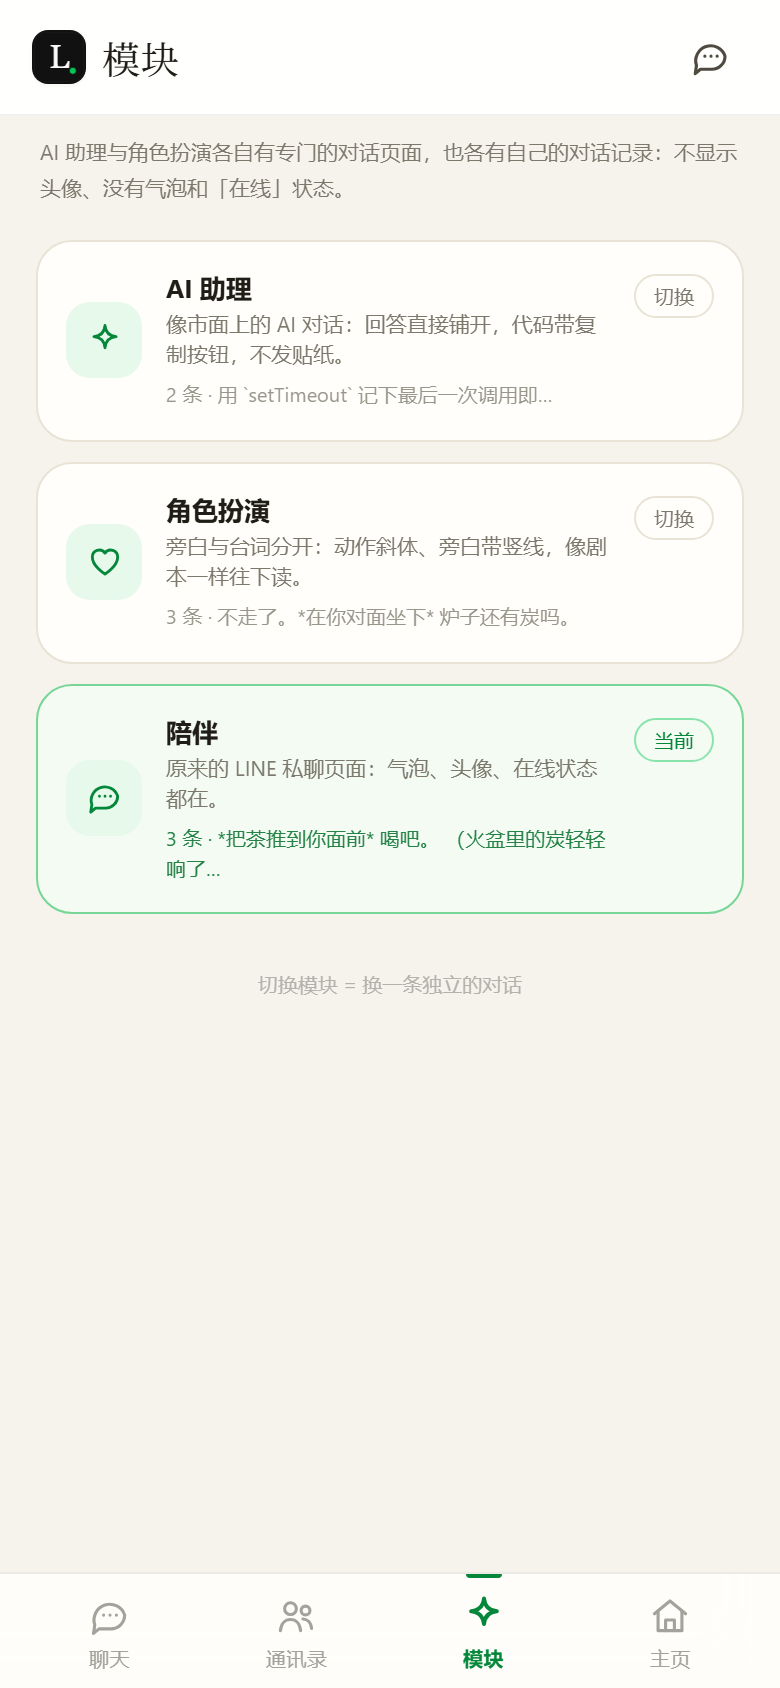
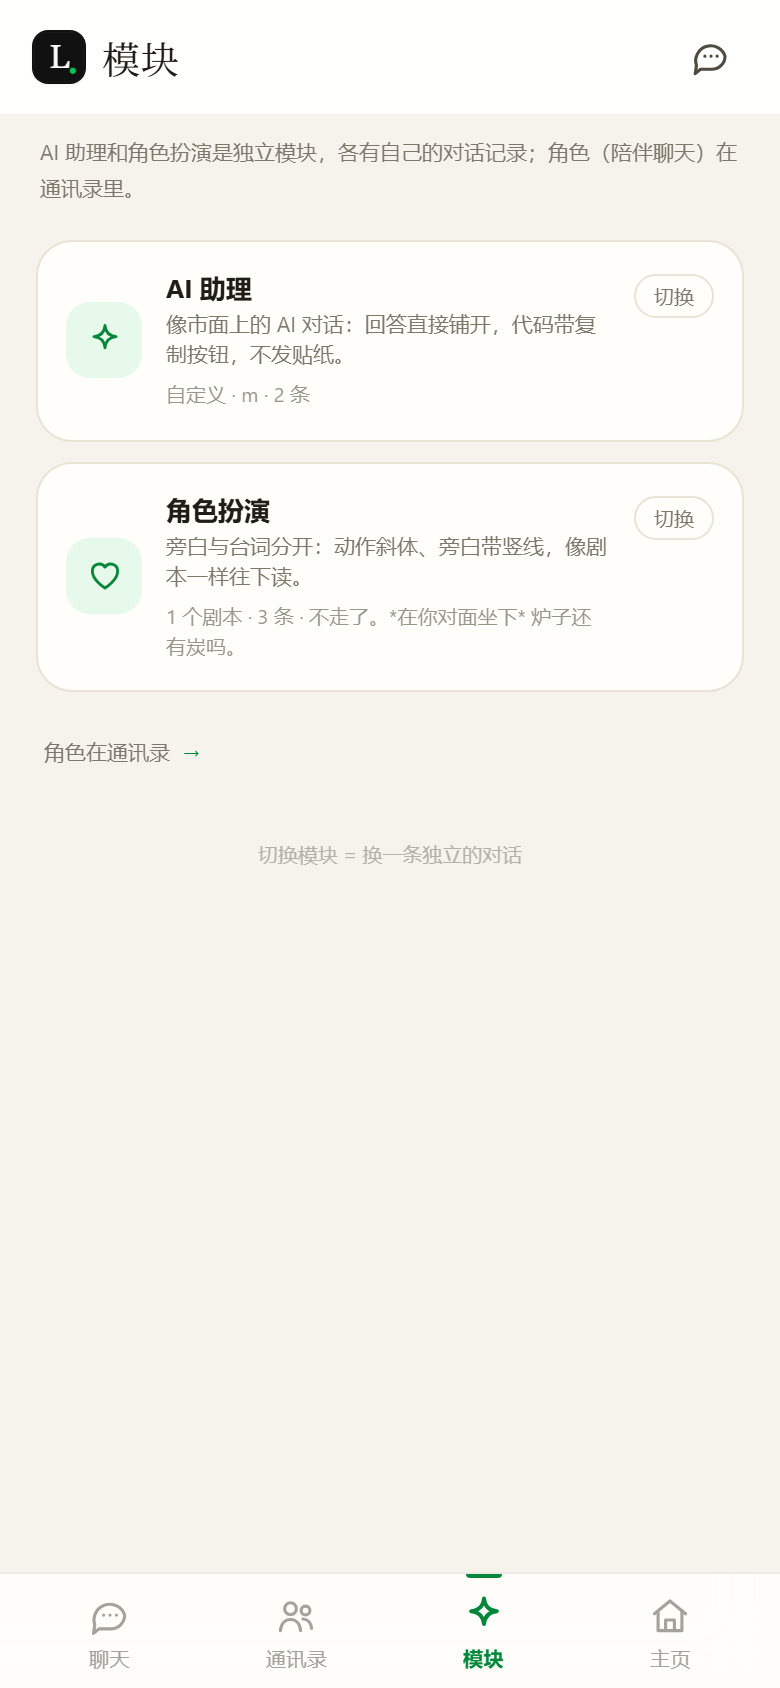
Lian 1.9.27: 模块页收成两张卡，角色回通讯录

diff --git a/lian-chat/js/app.js b/lian-chat/js/app.js
@@ -80,7 +80,7 @@ import {
 } from "./utils.js";
 
 /* 与 index.html 的 __LIAN_HTML_BUILD__ 对齐；不一致时由页内脚本清缓存重载。 */
-window.__LIAN_APP_BUILD__ = "1.9.26";
+window.__LIAN_APP_BUILD__ = "1.9.27";
 
 const $ = (selector, root = document) => root.querySelector(selector);
 const $$ = (selector, root = document) => [...root.querySelectorAll(selector)];
@@ -1408,7 +1408,6 @@ function applyAppearance() {
 const MODULE_CARDS = [
   { id: "assistant", icon: "sparkle", nameKey: "module.assistantName", descKey: "module.assistantDesc" },
   { id: "roleplay", icon: "heart", nameKey: "module.roleplayName", descKey: "module.roleplayDesc" },
-  { id: "companion", icon: "chat", nameKey: "module.companionName", descKey: "module.companionDesc" },
 ];
 
 function moduleThreadInfo(mode) {
@@ -1427,19 +1426,32 @@ function renderModuleHome() {
   const box = $("#moduleBody");
   if (!box || !state) return;
   const current = chatModeOf(state.settings);
+  const scripts = state.chats.filter((chat) => modeOfChat(chat) === "roleplay").length;
   box.innerHTML = MODULE_CARDS.map((card) => {
     const on = card.id === current;
     const info = moduleThreadInfo(card.id);
+    const thread = modeThread(card.id);
+    let meta = info.text;
+    if (card.id === "assistant" && thread) {
+      const key = state.keys.find((item) => item.id === (thread.keyId || state.activeKeyId));
+      const provider = providerShort(providerOfChat(thread));
+      const model = String(key?.model || state.settings.model || "").trim();
+      meta = [provider, model].filter(Boolean).join(" · ");
+      if (info.count) meta += ` · ${t("module.threadCount", { n: info.count })}`;
+    } else if (card.id === "roleplay") {
+      const count = scripts ? t("module.scriptCount", { n: scripts }) : t("module.scriptEmpty");
+      meta = info.count ? `${count} · ${info.text}` : count;
+    }
     return `<button type="button" class="module-card${on ? " is-on" : ""}" data-module-pick="${card.id}" aria-pressed="${on}">
       <span class="module-card-icon">${icon(card.icon)}</span>
       <span class="module-card-copy">
         <b>${escapeHtml(t(card.nameKey))}</b>
         <small>${escapeHtml(t(card.descKey))}</small>
-        <em class="module-card-thread">${escapeHtml(info.text)}</em>
+        <em class="module-card-thread">${escapeHtml(meta)}</em>
       </span>
       <span class="module-card-state">${escapeHtml(on ? t("module.current") : info.count ? t("module.use") : t("module.start"))}</span>
     </button>`;
-  }).join("");
+  }).join("") + `<button type="button" class="module-characters" data-module-characters>${escapeHtml(t("module.charactersNote"))} <span aria-hidden="true">→</span></button>`;
 }
 
 function openModuleChat() {
@@ -1454,6 +1466,10 @@ function openModuleChat() {
 
 function bindModuleScreen() {
   $("#moduleBody")?.addEventListener("click", (event) => {
+    if (event.target.closest("[data-module-characters]")) {
+      openTab("contacts");
+      return;
+    }
     const card = event.target.closest("[data-module-pick]");
     if (!card) return;
     setChatMode(card.dataset.modulePick);

diff --git a/lian-chat/js/i18n.js b/lian-chat/js/i18n.js
@@ -360,7 +360,10 @@ const ZH = {
   "newChat.customScript": "自定义剧本",
   "newChat.customScriptTag": "自己写",
   "module.title": "模块",
-  "module.lead": "AI 助理与角色扮演各自有专门的对话页面，也各有自己的对话记录：不显示头像、没有气泡和「在线」状态。",
+  "module.lead": "AI 助理和角色扮演是独立模块，各有自己的对话记录；角色（陪伴聊天）在通讯录里。",
+  "module.scriptCount": "{n} 个剧本",
+  "module.scriptEmpty": "还没有剧本",
+  "module.charactersNote": "角色在通讯录",
   "module.footnote": "切换模块 = 换一条独立的对话",
   "module.open": "打开对话",
   "module.current": "当前",
@@ -1022,7 +1025,10 @@ const EN = {
   "newChat.customScript": "Custom script",
   "newChat.customScriptTag": "write your own",
   "module.title": "Modules",
-  "module.lead": "The assistant and roleplay pages are purpose-built, and each keeps its own conversation: no avatars, no bubbles and no online dot.",
+  "module.lead": "Assistant and roleplay are separate modules with their own threads; characters (companion chats) live in Contacts.",
+  "module.scriptCount": "{n} scripts",
+  "module.scriptEmpty": "No scripts yet",
+  "module.charactersNote": "Characters live in Contacts",
   "module.footnote": "Switching modules switches to a separate thread",
   "module.open": "Open conversation",
   "module.current": "Current",

diff --git a/lian-chat/index.html b/lian-chat/index.html
@@ -341,7 +341,7 @@
     /* 资源版本自检：新 HTML 配到旧 JS（Service Worker / HTTP 缓存混用）时，
        自动清掉旧的 Service Worker 与缓存并重载一次；仍然不一致就提示。
        不再用固定延时，否则冷启动慢的机器会误判。 */
-    window.__LIAN_HTML_BUILD__ = "1.9.26";
+    window.__LIAN_HTML_BUILD__ = "1.9.27";
     (() => {
       const started = Date.now();
       const repair = async () => {
@@ -387,6 +387,6 @@
       tick();
     })();
   </script>
-  <script type="module" src="js/app.js?v=1.9.26"></script>
+  <script type="module" src="js/app.js?v=1.9.27"></script>
 </body>
 </html>

diff --git a/lian-chat/css/modules/19-modes.css b/lian-chat/css/modules/19-modes.css
@@ -98,6 +98,20 @@ body[data-screen="module"] .tabbar {
   border-color: color-mix(in srgb, var(--accent) 45%, transparent);
   color: var(--accent-strong, var(--accent));
 }
+.module-characters {
+  display: flex;
+  align-items: center;
+  gap: 6px;
+  margin: 14px 2px 0;
+  padding: 9px 2px;
+  border: 0;
+  background: transparent;
+  color: var(--muted);
+  font-size: var(--fs-xs);
+}
+.module-characters span {
+  color: var(--accent-strong, var(--accent));
+}
 
 /* ---- 2. 纯 AI 助理：不显示头像、不套气泡 ---- */
 body[data-mode="assistant"] .chat-header #headerAvatar,

diff --git a/lian-chat/js/settings.js b/lian-chat/js/settings.js
@@ -611,7 +611,7 @@ ${switchRow(t("settings.optDrawings"), t("settings.optDrawingsHint"), Boolean(op
       <div class="danger-row-copy"><b>${escapeHtml(t("settings.clearAll"))}</b><small>${escapeHtml(t("settings.clearAllHint"))}</small></div>
       <button type="button" class="btn btn-danger" id="clearAll">${escapeHtml(t("common.delete"))}</button>
     </div>
-    <p class="token-line">${escapeHtml(t("settings.version", { v: "1.9.26" }))}</p>`;
+    <p class="token-line">${escapeHtml(t("settings.version", { v: "1.9.27" }))}</p>`;
 
   const aboutBody = `
     <div class="about-box">

diff --git a/lian-chat/sw.js b/lian-chat/sw.js
@@ -1,6 +1,6 @@
 /* Lian service worker — cache the shell so the app opens instantly.
    API calls are never cached. */
-const VERSION = "lian-v1.9.26-1";
+const VERSION = "lian-v1.9.27-1";
 const SANDBOX_MARK = "/__sandbox__/asset/";
 const ASSETS = [
   "./",

diff --git a/lian-chat/README.md b/lian-chat/README.md
@@ -2,7 +2,7 @@
 
 一个 **纯前端** 的 LINE 风格手机聊天应用。没有账号、没有后端、没有模型名；填入自己的 API Key 就能用。聊天、记忆、头像、表情和密钥都只留在当前设备。
 
-> 当前版本：**1.9.26**  
+> 当前版本：**1.9.27**  
 > 形态：PWA / 静态网页 / Android APK  
 > 默认接口：MiMo（小米）OpenAI 兼容接口  
 > 重来：长按「重新生成」只重做那一条，后面的消息保留（画面消息是「重画一张」）
@@ -24,6 +24,22 @@
 <img src="docs/preview-snow.png" width="260" alt="雪站沉浸主题">
 <img src="docs/preview-studio.png" width="260" alt="AI 表情工坊">
 <img src="docs/preview-drawing.png" width="260" alt="TA 现场画的画面">
+
+---
+
+## 1.9.27 模块页：只留两个模块，角色回通讯录（2026-11-21）
+
+<img src="docs/module-home.png" width="250" alt="模块页：AI 助理与角色扮演两张卡，底部回通讯录">
+
+上一版把通讯录里的模块线程清掉之后，模块页还留着第三张「陪伴」卡，逻辑上有点打架。这一版把模块页收成两张卡：
+
+- **AI 助理**：标题下直接写服务商和模型（`MiMo · mimo-v2.6-flash` / `DeepSeek · deepseek-flash`），有对话时再补「N 条」；
+- **角色扮演**：写「N 个剧本」＋ 当前剧本的条数与最后一句；
+- 页头文案改成「AI 助理和角色扮演是独立模块，各有自己的对话记录；角色（陪伴聊天）在通讯录里」；
+- 卡片下方新增 **「角色在通讯录 →」**，点一下直接去通讯录，不再需要回聊天列表找；
+- 陪伴不再出现在模块页；它仍然在聊天列表和通讯录里。
+
+验证：mode **62 / 62**（新增：模块页只有 assistant / roleplay、陪伴不标当前、角色入口存在、回陪伴从聊天列表走）、thread 71 / 71、单测 169 / 169、audit 262、boot 14，其余全绿。
 
 ---
 
